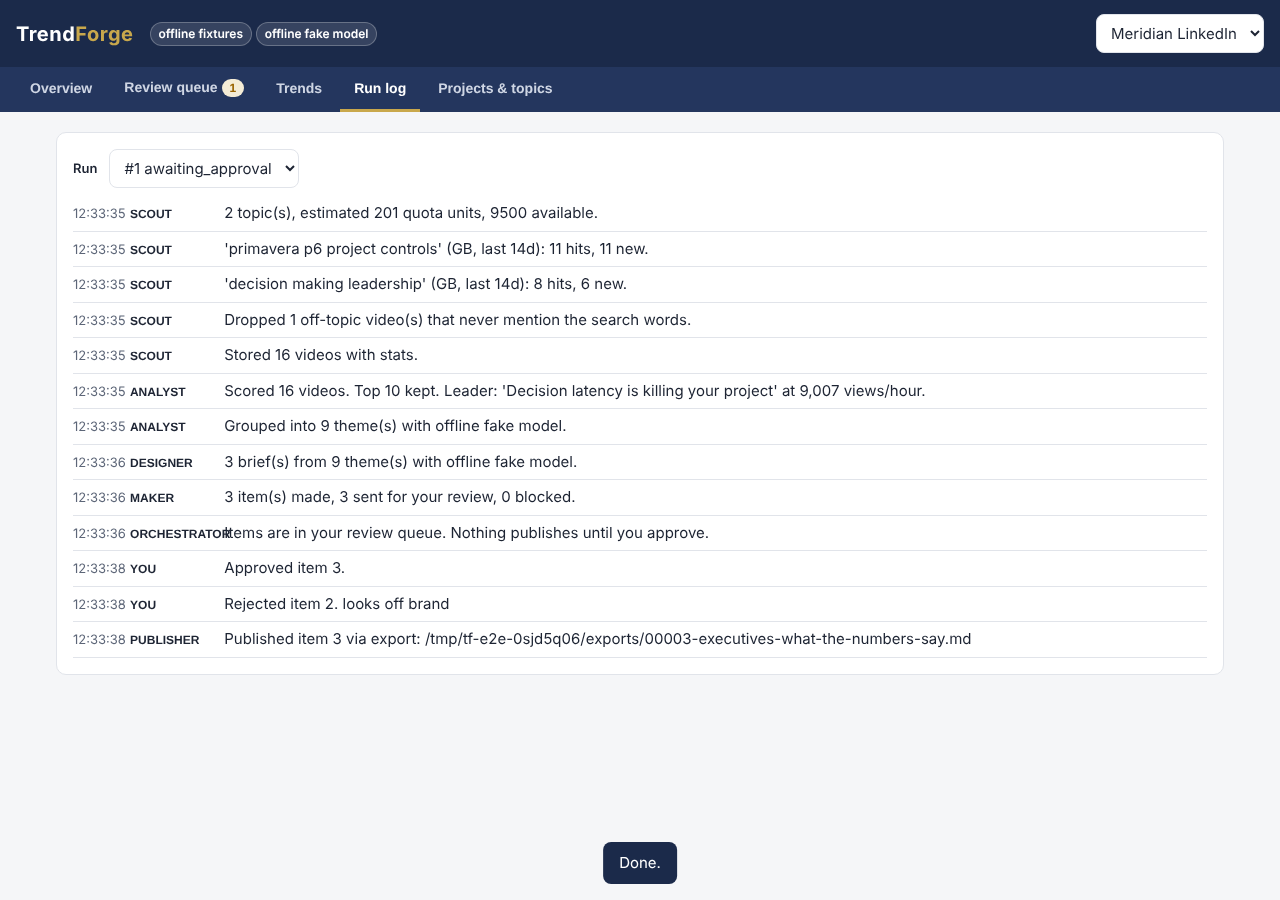
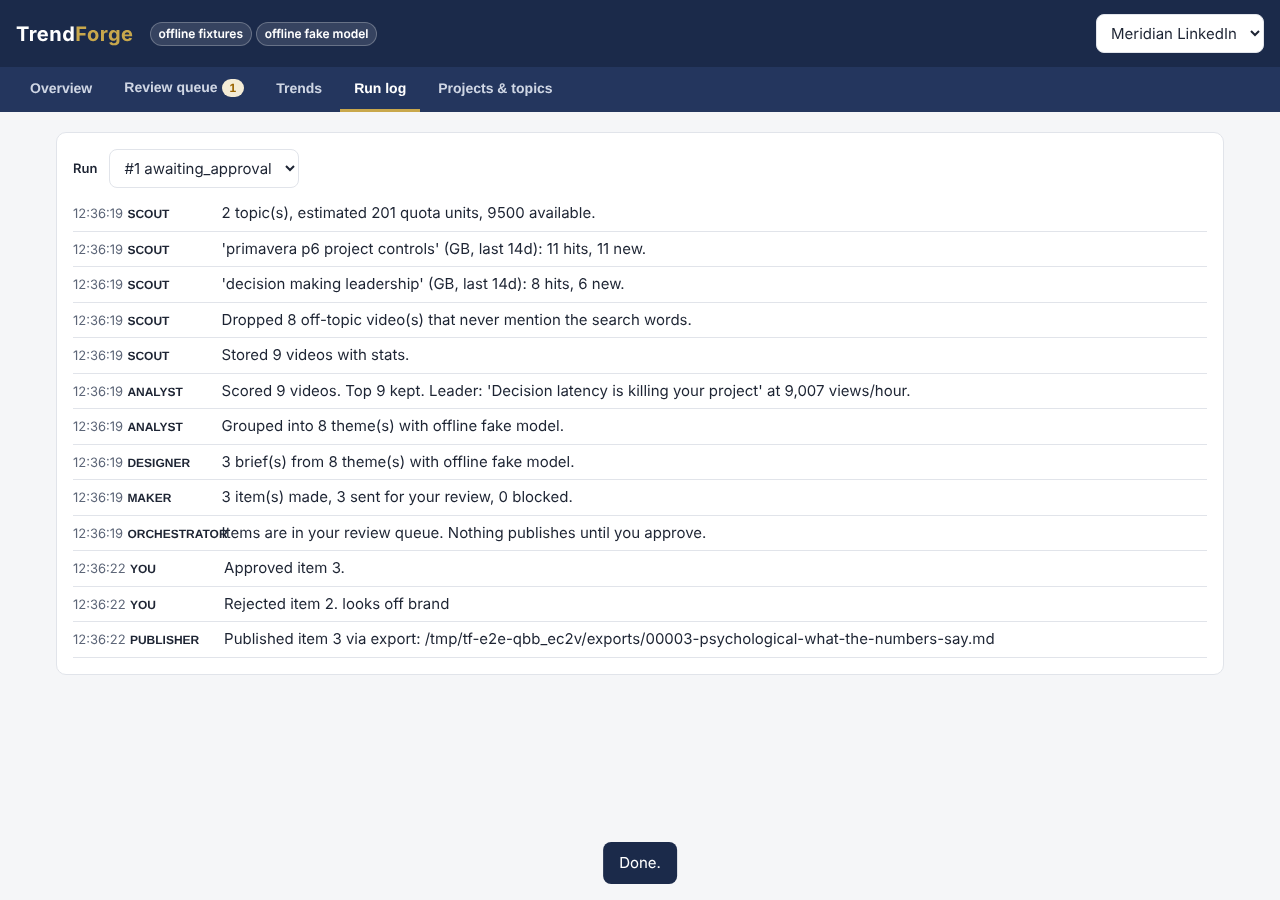
Relevance filter: search words must appear in the title (ignore tag stuffing)
Claude-Session: https://claude.ai/code/session_01VSFumGLFDZ9vRrEW3oyxtc

diff --git a/tests/test_e2e_browser.py b/tests/test_e2e_browser.py
@@ -93,8 +93,8 @@ def test_user_journey(server, page):
     pg.wait_for_selector("#quote >> text=201 YouTube units")
     pg.click("[data-testid=run-btn]")
     pg.wait_for_selector("[data-testid=run-status] >> text=awaiting approval", timeout=20000)
-    assert pg.inner_text("[data-testid=stage-scout] .n") == "16"
-    assert pg.inner_text("[data-testid=stage-analyst] .n") == "10"
+    assert pg.inner_text("[data-testid=stage-scout] .n") == "9"
+    assert pg.inner_text("[data-testid=stage-analyst] .n") == "9"
     assert pg.inner_text("[data-testid=stage-designer] .n") == "3"
     assert pg.inner_text("[data-testid=stage-review] .n") == "3"
     assert pg.inner_text("[data-testid=stage-publisher] .n") == "0"
@@ -103,7 +103,7 @@ def test_user_journey(server, page):
 
     pg.get_by_role("tab", name="Trends").click()
     pg.wait_for_selector("[data-testid=trend-row]")
-    assert pg.locator("[data-testid=trend-row]").count() == 10
+    assert pg.locator("[data-testid=trend-row]").count() == 9
     pg.screenshot(path=EVIDENCE / "3-trends.png", full_page=True)
 
     pg.get_by_role("tab", name="Review queue").click()

diff --git a/tests/test_pipeline.py b/tests/test_pipeline.py
@@ -26,11 +26,10 @@ def test_full_run_reaches_approval_gate(db, project):
         trends = s.scalars(select(Trend).where(Trend.run_id == run.id).order_by(Trend.id)).all()
         briefs = s.scalars(select(Brief).where(Brief.run_id == run.id)).all()
         items = s.scalars(select(Item).where(Item.run_id == run.id)).all()
-        # 8 + 8 from the two themes, plus 3 loose matches on 'project'. Two are
-        # duplicates (deduped); the third ('megaprojects') never mentions a search
-        # word, so the relevance filter drops it: 16 videos.
-        assert videos == 16
-        assert len(trends) == settings.top_trends
+        # Search matches 17 unique fixture videos on title + tags, but only 9 carry a
+        # search word in their TITLE. The relevance filter keeps those 9.
+        assert videos == 9
+        assert len(trends) == min(settings.top_trends, videos)
         assert all(0 <= t.score <= 1 for t in trends)
         scores = [t.score for t in trends]
         assert scores == sorted(scores, reverse=True)   # stored best-first

diff --git a/tests/test_units.py b/tests/test_units.py
@@ -102,9 +102,11 @@ def test_relevance_filter_drops_off_topic():
     from app.agents.scout import is_relevant
     p6 = NS(title="Cost loading in Primavera P6", tags=[], description="")
     board = NS(title="HDHMR board for interior work", tags=["interior"], description="Tips")
-    in_desc = NS(title="Planning tutorial", tags=[], description="Uses P6 throughout")
-    assert is_relevant("primavera p6", p6) and is_relevant("primavera p6", in_desc)
+    stuffed = NS(title="HDHMR board for interior work", tags=["primavera", "p6"], description="#p6 #primavera")
+    arabic = NS(title="كورس التخطيط والبريمافيرا P6", tags=[], description="")
+    assert is_relevant("primavera p6", p6) and is_relevant("primavera p6", arabic)
     assert not is_relevant("primavera p6", board)
+    assert not is_relevant("primavera p6", stuffed)   # tag stuffing does not count
     assert is_relevant("", board)
 
 

diff --git a/app/agents/scout.py b/app/agents/scout.py
@@ -14,12 +14,13 @@ STOP = {"the", "and", "for", "with", "how", "what", "your", "you", "from", "into
 
 
 def is_relevant(query: str, v) -> bool:
-    """YouTube search pads results with loosely related videos. Keep a video only
-    if at least one meaningful search word appears in its title, tags or description."""
+    """YouTube search pads results with loosely related videos, and some uploaders
+    stuff popular words into tags and descriptions. Keep a video only if at least
+    one meaningful search word appears in its TITLE."""
     words = [w for w in re.findall(r"[a-z0-9]+", query.lower()) if len(w) > 1 and w not in STOP]
     if not words:
         return True
-    hay = " ".join([v.title, " ".join(v.tags), v.description]).lower()
+    hay = v.title.lower()
     return any(re.search(rf"\b{re.escape(w)}\b", hay) for w in words)
 
 
